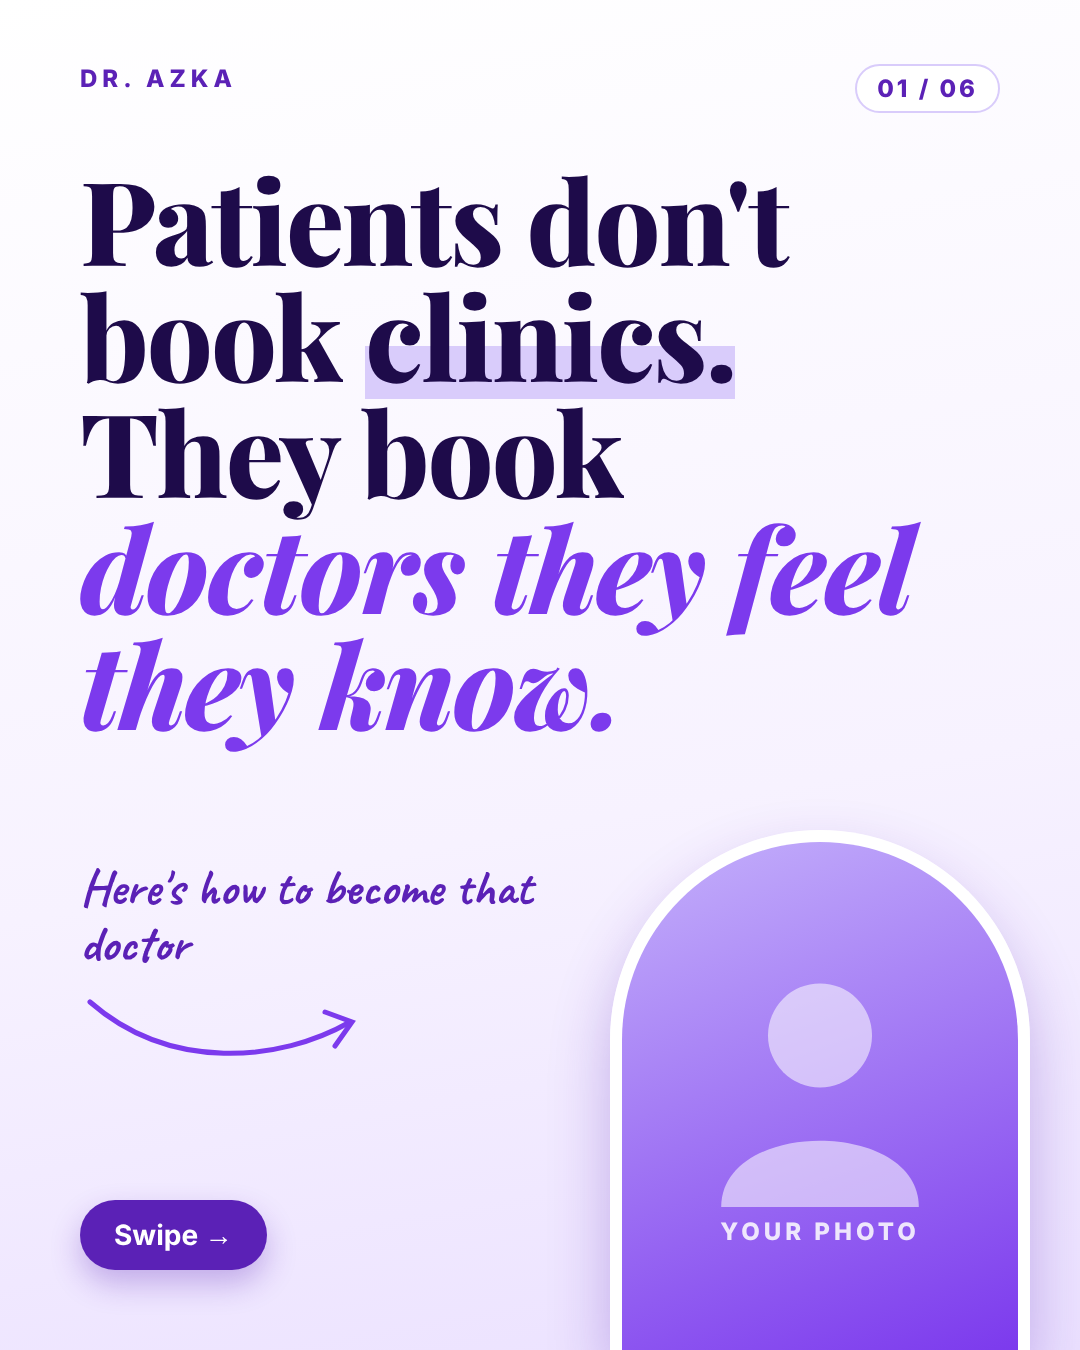
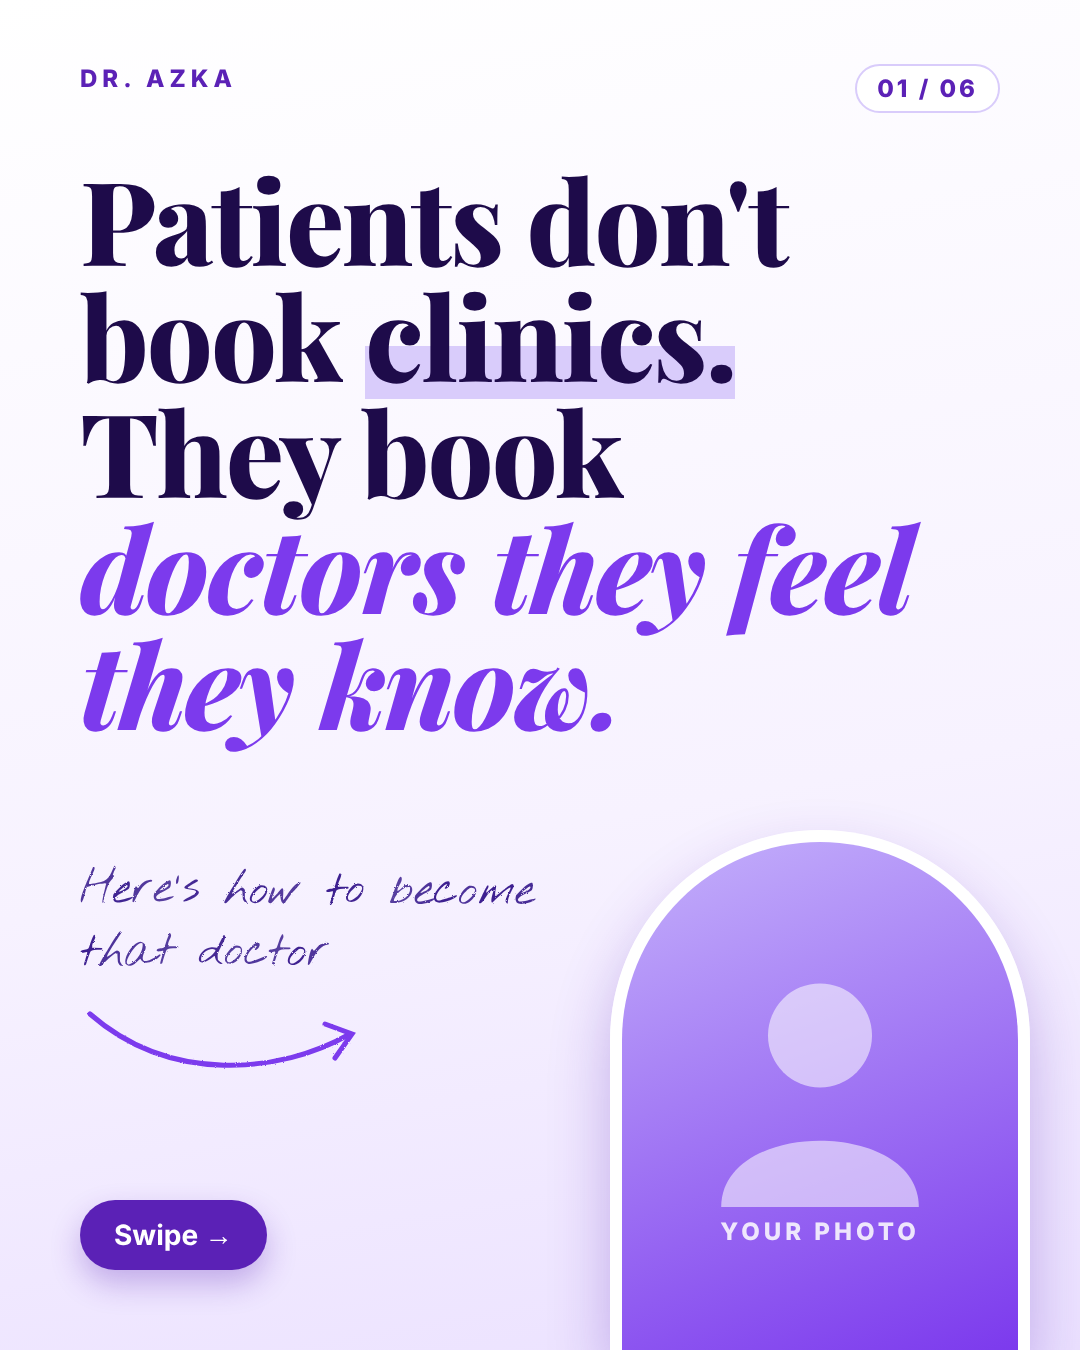
Samples: realistic pen handwriting, new tagline
Claude-Session: https://claude.ai/code/session_01FWPPE9U11P2MJTAp1qa8Bz

Changed region(s): [[0.0611, 0.6533, 0.4889, 0.7156], [0.0917, 0.7467, 0.3361, 0.8089]]

diff --git a/carousels/samples/slides.html b/carousels/samples/slides.html
@@ -1,4 +1,6 @@
 <!doctype html><html><head><meta charset="utf-8"><style>
+@font-face{font-family:Pen;src:url(../fonts/nothing-you-could-do-latin-400-normal.woff2)}
+@font-face{font-family:Pen2;src:url(../fonts/la-belle-aurore-latin-400-normal.woff2)}
 @font-face{font-family:Caveat;src:url(../fonts/caveat-latin-700-normal.woff2);font-weight:700}
 @font-face{font-family:Caveat;src:url(../fonts/caveat-latin-500-normal.woff2);font-weight:500}
 @font-face{font-family:Playfair;src:url(../fonts/playfair-display-latin-800-normal.woff2);font-weight:800}
@@ -19,24 +21,25 @@
 .pad:before{content:"";position:absolute;inset:0 0 auto 0;height:250px;background:#fffdf9;border-radius:18px 18px 0 0}
 .lh{position:relative;padding-top:56px;display:flex;justify-content:space-between;align-items:flex-start}
 .lh .nm{font:800 54px Playfair;color:var(--dark);letter-spacing:.5px}
-.lh .sub{font:700 20px Inter;letter-spacing:5px;color:var(--v2);margin-top:6px}
+.lh .sub{font:700 18px Inter;letter-spacing:4px;color:var(--v2);margin-top:6px}
 .lh .cr{width:74px;height:74px;border-radius:50%;background:linear-gradient(135deg,#8b5cf6,#5b21b6);display:flex;align-items:center;justify-content:center;color:#fff;font:800 40px Inter}
 .meta{position:relative;display:flex;gap:40px;margin-top:28px;padding-bottom:20px;border-bottom:3px solid var(--v);font:500 22px Inter;color:#6b5a99}
-.meta b{font:700 34px Caveat;color:var(--ink);margin-left:8px}
+.meta b{font:400 36px Pen;color:#3b1d8f;margin-left:10px;filter:url(#ink)}
 .rxs{position:absolute;left:62px;top:282px;font:800 italic 150px Playfair;color:var(--v2);line-height:1}
-.hand{font-family:Caveat;color:var(--ink)}
+.ink{color:#3b1d8f;filter:url(#ink)}
+.ink .ch{display:inline-block;white-space:pre}
 .dx{position:absolute;left:210px;top:300px;right:60px}
 .dx .l{font:700 30px Inter;letter-spacing:4px;color:#a68ee0}
-.dx .big{font:700 104px/0.98 Caveat;color:var(--ink);margin-top:4px}
-.hlt{background:linear-gradient(100deg,rgba(196,170,255,0) 1%,rgba(190,160,255,.75) 4%,rgba(196,170,255,.6) 94%,rgba(196,170,255,0) 99%);padding:0 10px;border-radius:6px}
+.dx .big{font:400 78px/1.28 Pen;margin-top:14px}
+.hlt{background:linear-gradient(178deg,transparent 30%,rgba(181,148,255,.55) 32%,rgba(170,135,252,.62) 70%,rgba(181,148,255,.4) 86%,transparent 88%);padding:0 14px;margin:0 -6px;-webkit-box-decoration-break:clone;box-decoration-break:clone}
 .sx{position:absolute;left:70px;right:70px;top:610px}
 .sx .l{font:700 26px Inter;letter-spacing:4px;color:#a68ee0;margin-bottom:6px}
-.sx li{list-style:none;font:700 54px/72px Caveat;color:var(--ink)}
+.sx li{list-style:none;font:400 44px/72px Pen}
 .sx li:before{content:"✕ ";color:#c0392b;font-size:40px}
-.plan{position:absolute;left:70px;right:70px;top:900px;font:700 60px Caveat;color:var(--v)}
+.plan{position:absolute;left:70px;right:70px;top:900px;font:400 50px Pen}
 .plan u{text-decoration-thickness:4px;text-underline-offset:10px}
 .sig{position:absolute;right:80px;bottom:46px;text-align:right}
-.sig .s{font:700 64px Caveat;color:var(--v);transform:rotate(-4deg)}
+.sig .s{font:400 76px Pen2;color:#3b1d8f;transform:rotate(-5deg);filter:url(#ink)}
 .sig .t{font:500 18px Inter;letter-spacing:3px;color:#8a7bb5;border-top:2px solid #cbbcf2;padding-top:8px;margin-top:-6px}
 .stamp{position:absolute;left:600px;top:250px;transform:rotate(12deg);border:5px solid rgba(124,58,237,.55);color:rgba(124,58,237,.6);font:800 28px Inter;letter-spacing:4px;padding:10px 18px;border-radius:12px}
 .swipe{position:absolute;right:60px;bottom:28px;font:700 26px Inter;color:#fff;letter-spacing:2px}
@@ -67,19 +70,19 @@
 .ph{position:absolute;inset:0;background:linear-gradient(160deg,#c4b0fb,#7c3aed);border-radius:240px 240px 0 0;border:12px solid #fff;border-bottom:0;box-shadow:0 30px 60px rgba(91,33,182,.3);display:flex;align-items:center;justify-content:center;flex-direction:column;color:#fff}
 .ph svg{width:260px;opacity:.55}
 .ph div{font:800 24px Inter;letter-spacing:4px;margin-top:10px;opacity:.85}
-.note{position:absolute;left:80px;top:860px;width:470px;font:700 50px/1.12 Caveat;color:var(--v)}
+.note{position:absolute;left:80px;top:860px;width:480px;font:400 46px/1.35 Pen}
 .note svg{display:block;margin-top:10px}
 .pill{position:absolute;left:80px;bottom:80px;background:var(--v);color:#fff;font:700 28px Inter;padding:18px 34px;border-radius:40px;box-shadow:0 14px 30px rgba(91,33,182,.3)}
-</style></head><body>
+</style></head><body><svg width="0" height="0" style="position:absolute"><filter id="ink"><feTurbulence type="fractalNoise" baseFrequency="0.9" numOctaves="2" seed="4" result="n"/><feDisplacementMap in="SourceGraphic" in2="n" scale="2.2"/><feGaussianBlur stdDeviation="0.35"/></filter></svg>
 
 <div class="slide" id="rx">
  <div class="pad">
-  <div class="lh"><div><div class="nm">Dr. Azka</div><div class="sub">CLINIC GROWTH · CONTENT · SYSTEMS</div></div><div class="cr">+</div></div>
+  <div class="lh"><div><div class="nm">Dr. Azka</div><div class="sub">DOCTOR PERSONAL BRANDING · CLINIC GROWTH</div></div><div class="cr">+</div></div>
   <div class="meta"><div>Patient:<b>Your clinic</b></div><div>Date:<b>Today</b></div></div>
   <div class="rxs">℞</div>
-  <div class="dx"><div class="l">DIAGNOSIS</div><div class="big">Your clinic is <span class="hlt">leaking patients.</span></div></div>
-  <div class="sx"><div class="l">SYMPTOMS</div><ul><li>Missed calls, no text back</li><li>9 PM DMs answered tomorrow</li><li>"I'll think about it"… then silence</li></ul></div>
-  <div class="plan">Treatment: <u>5 systems</u>. Swipe →</div>
+  <div class="dx"><div class="l">DIAGNOSIS</div><div class="ink big">Your clinic is <span class="hlt">leaking patients.</span></div></div>
+  <div class="sx"><div class="l">SYMPTOMS</div><ul class="ink"><li>Missed calls, no text back</li><li>9 PM DMs answered tomorrow</li><li>"I'll think about it"… then silence</li></ul></div>
+  <div class="ink plan">Treatment: <span class="hlt">5 systems</span>. Swipe →</div>
   <div class="sig"><div class="s">Dr. Azka</div><div class="t">SIGNATURE</div></div>
  </div>
 </div>
@@ -89,15 +92,22 @@
   <div class="who"><div class="av">DA</div><div><div class="n">Dr. Azka <i>+</i></div><div class="h">@your.handle</div></div></div>
   <div class="tx">Clinic owners, if a patient DMs you at 9 PM and you reply the next morning, <b>they might already be booked somewhere else.</b></div>
  </div>
- <div class="tw-foot"><div>Doctor · Clinic Growth</div><span>swipe →</span></div>
+ <div class="tw-foot"><div>Doctor Personal Branding · Clinic Growth</div><span>swipe →</span></div>
 </div>
 
 <div class="slide" id="ed">
  <div class="top"><div>DR. AZKA</div><span>01 / 06</span></div>
  <div class="eh">Patients don't book <span class="mk">clinics.</span><br>They book <em>doctors they feel they know.</em></div>
- <div class="note">Here's how to become that doctor
+ <div class="ink note">Here's how to become that doctor
   <svg width="300" height="90" viewBox="0 0 300 90"><path d="M10 20 C 90 90, 200 80, 270 40" stroke="#7c3aed" stroke-width="5" fill="none" stroke-linecap="round"/><path d="M245 30 L272 40 L255 64" stroke="#7c3aed" stroke-width="5" fill="none" stroke-linecap="round"/></svg></div>
  <div class="cut"><div class="ph"><svg viewBox="0 0 100 100"><circle cx="50" cy="34" r="20" fill="#fff"/><path d="M12 100 C 12 66, 88 66, 88 100Z" fill="#fff"/></svg><div>YOUR PHOTO</div></div></div>
  <div class="pill">Swipe →</div>
 </div>
-</body></html>
+<script>
+// natural pen jitter: per-letter baseline, size, angle and pressure
+let seed=7;const r=()=>{seed=(seed*16807)%2147483647;return seed/2147483647-.5};
+function walk(n){[...n.childNodes].forEach(c=>{if(c.nodeType===3){const f=document.createDocumentFragment();c.textContent.split(/(\s+)/).forEach(w=>{if(/^\s+$/.test(w)||!w){f.appendChild(document.createTextNode(w));return}const wd=document.createElement('span');wd.style.whiteSpace='nowrap';[...w].forEach(ch=>{const sp=document.createElement('span');sp.className='ch';sp.textContent=ch;
+ sp.style.transform=`translateY(${r()*3.2}px) rotate(${r()*3}deg) scale(${1+r()*0.06})`;sp.style.opacity=(0.84+Math.abs(r())*0.32).toFixed(2);wd.appendChild(sp)});f.appendChild(wd)});c.replaceWith(f)}else if(c.nodeType===1&&!c.matches('svg'))walk(c)})}
+document.querySelectorAll('.ink').forEach(walk);
+document.querySelectorAll('.sx li').forEach((li,i)=>li.style.transform=`rotate(${[-0.6,0.5,-0.3][i]}deg) translateX(${[0,6,-4][i]}px)`);
+</script></body></html>
